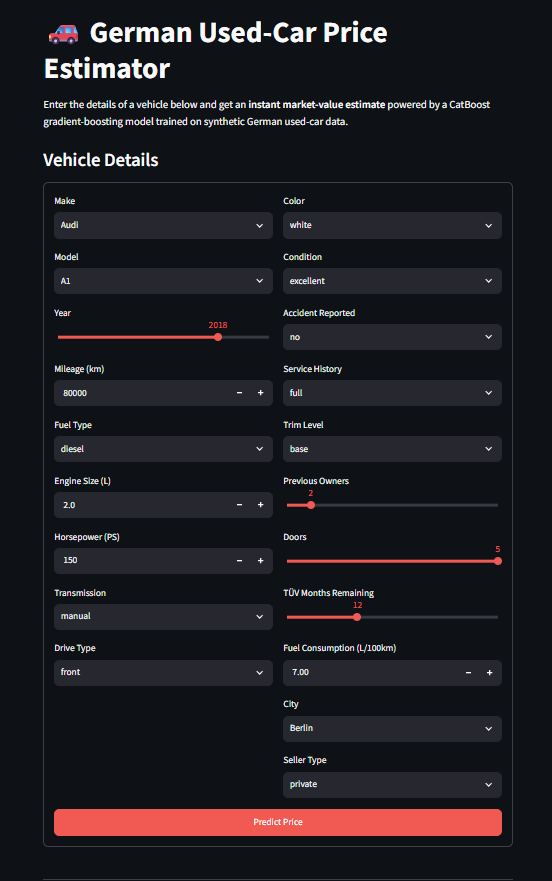
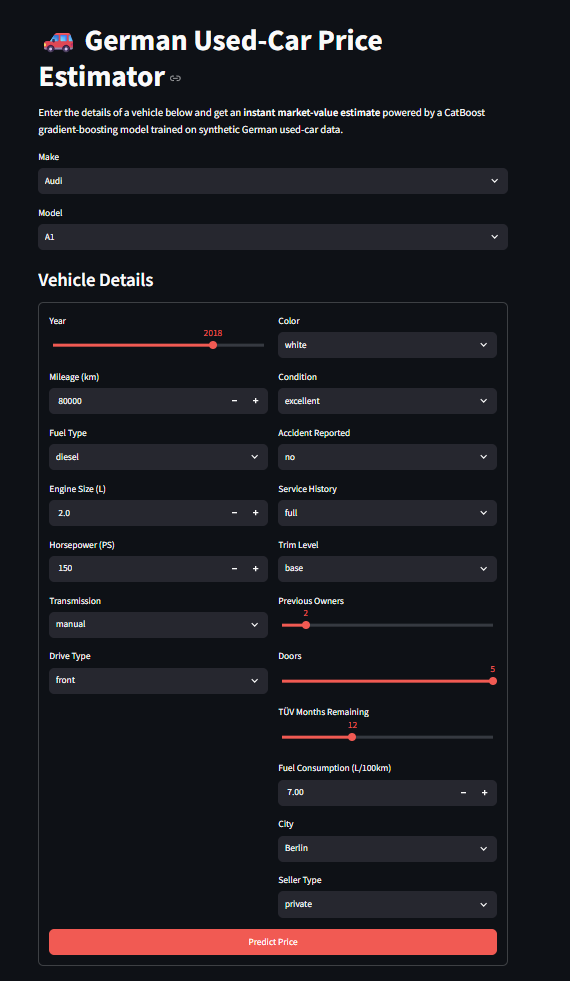
Bug from last commit finally fixed: (When the user changes the Make dropdown, the Model dropdown still shows).

diff --git a/app.py b/app.py
@@ -129,14 +129,15 @@ with st.spinner("Loading model …"):
 # Input form
 # ---------------------------------------------------------------------------
 
+make = st.selectbox("Make", MAKES)
+model_name = st.selectbox("Model", MODELS_BY_MAKE[make])
+
 st.subheader("Vehicle Details")
 
 with st.form("prediction_form"):
     col1, col2 = st.columns(2)
 
     with col1:
-        make = st.selectbox("Make", MAKES)
-        model_name = st.selectbox("Model", MODELS_BY_MAKE[make], key=f"model_{make}")
         year = st.slider("Year", 1996, 2025, 2018)
         mileage = st.number_input(
             "Mileage (km)", min_value=0, max_value=400_000,